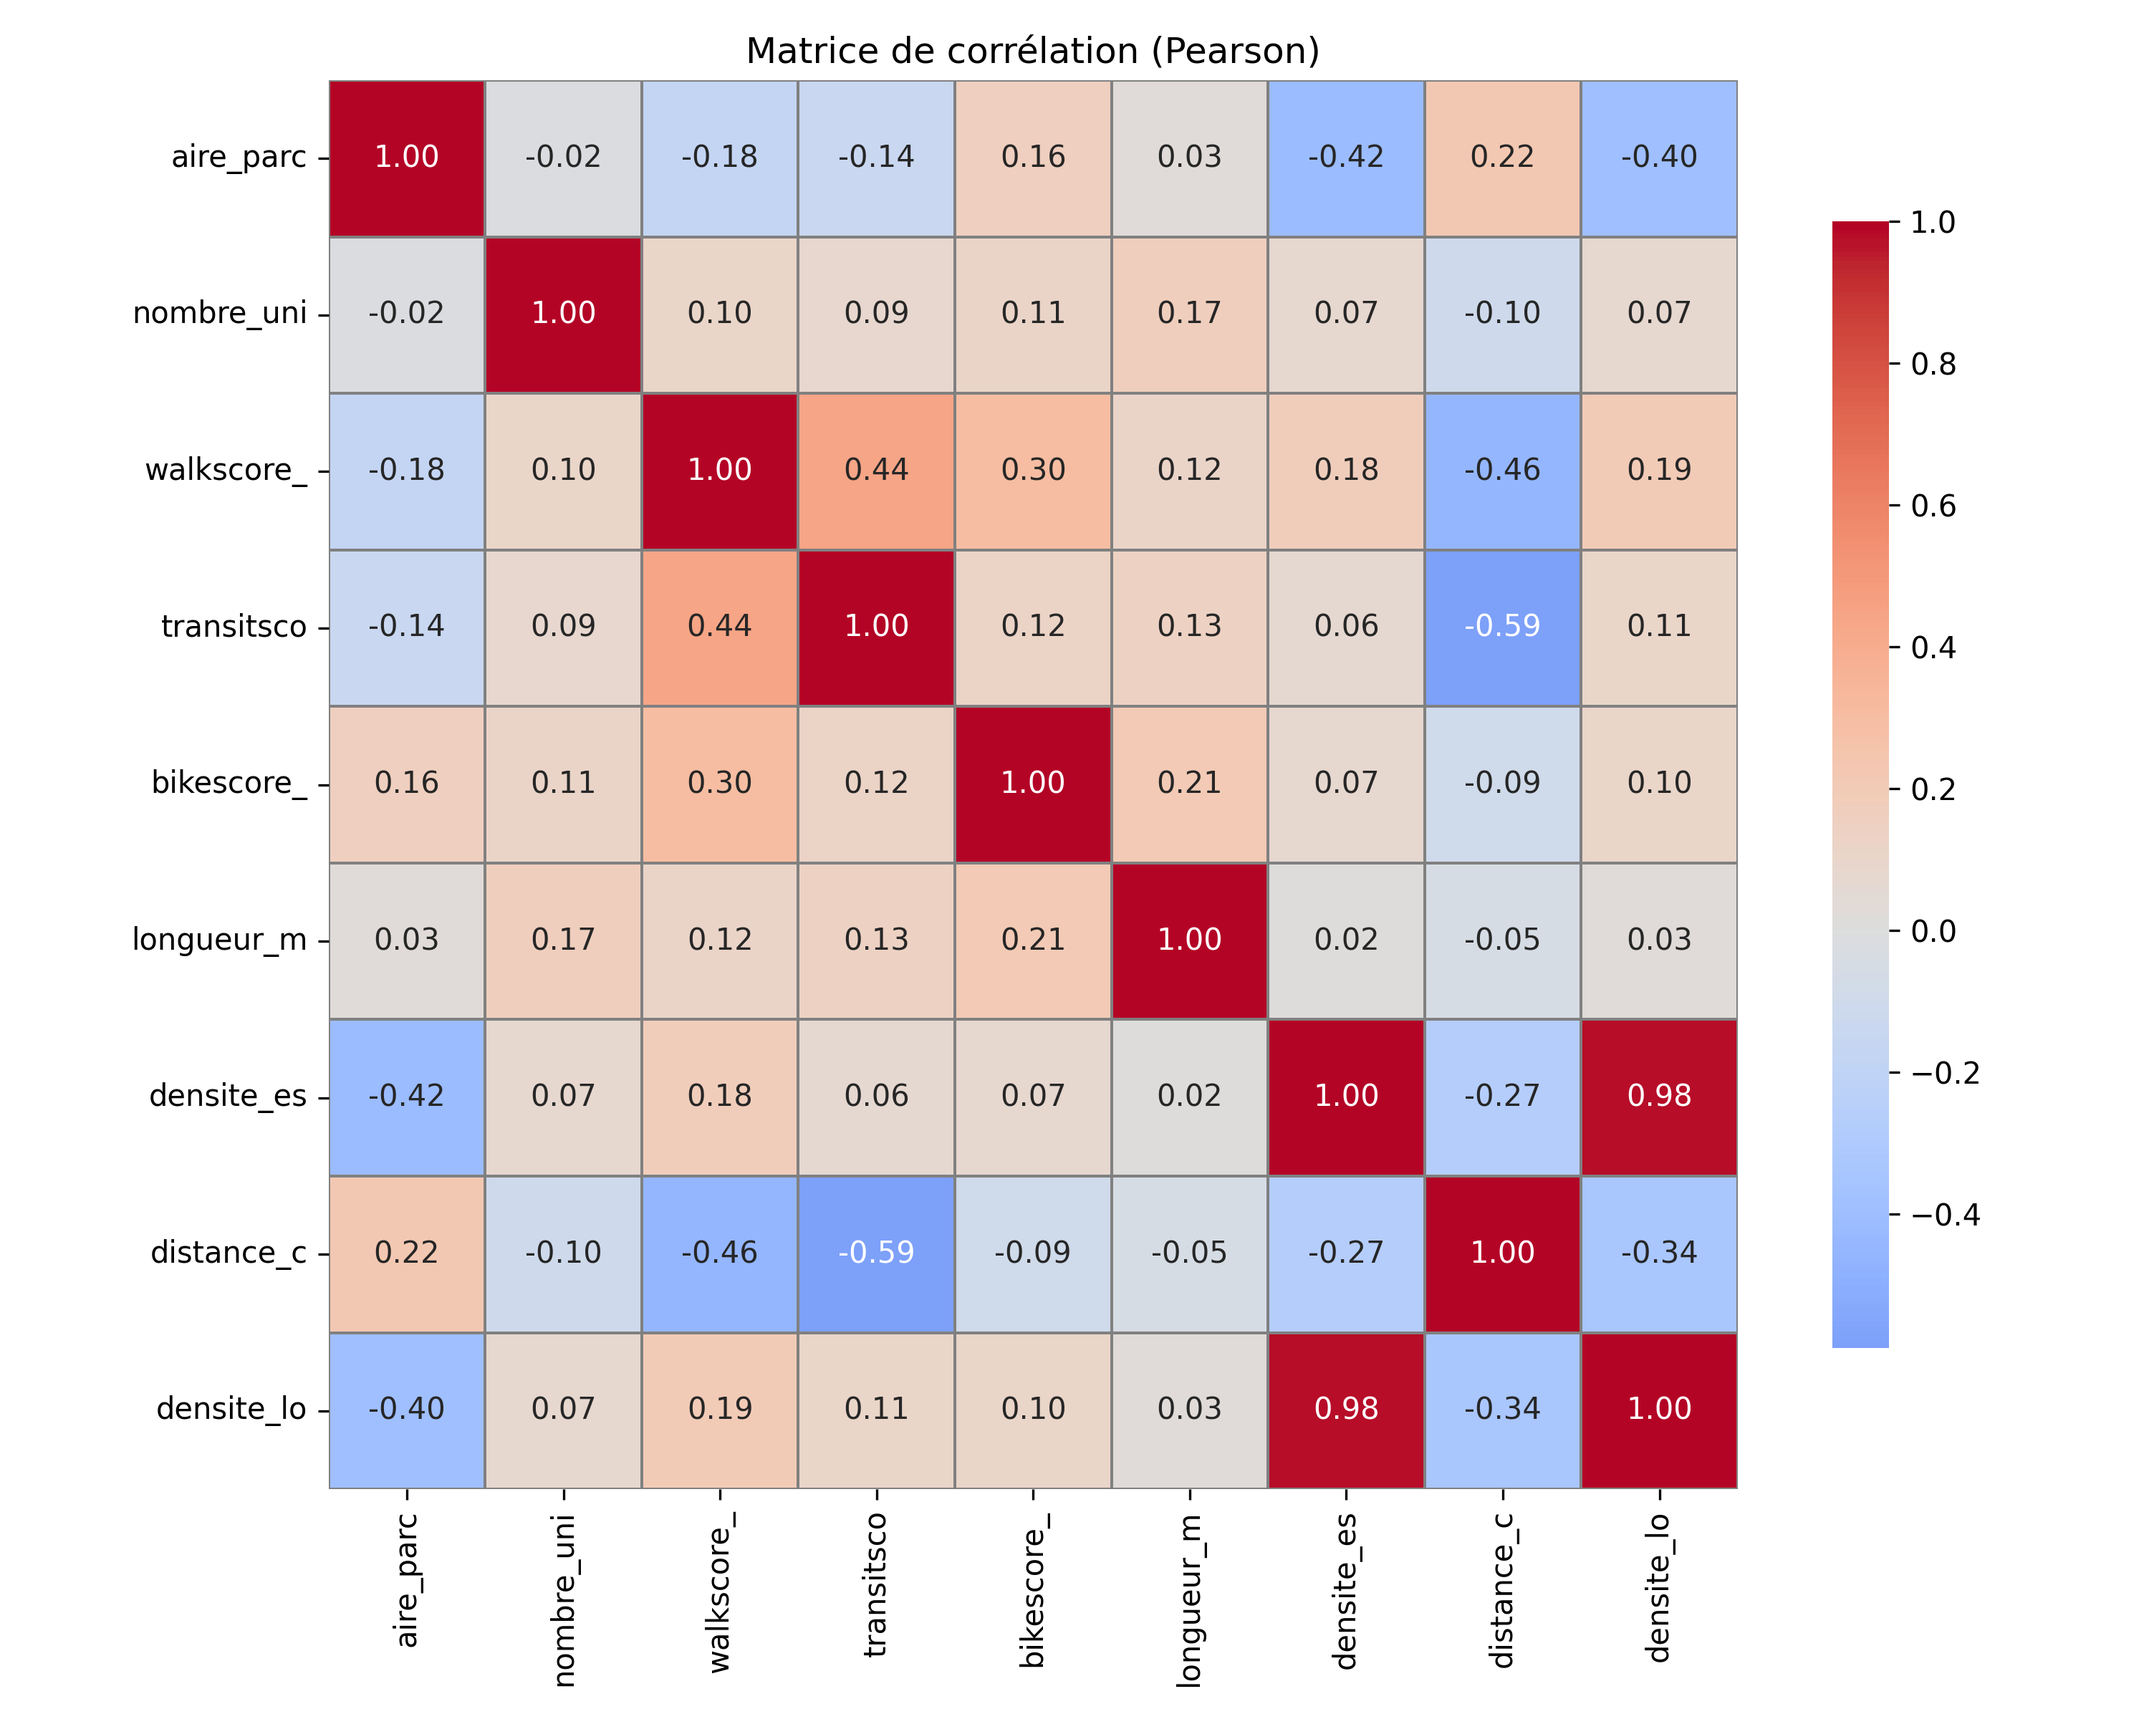
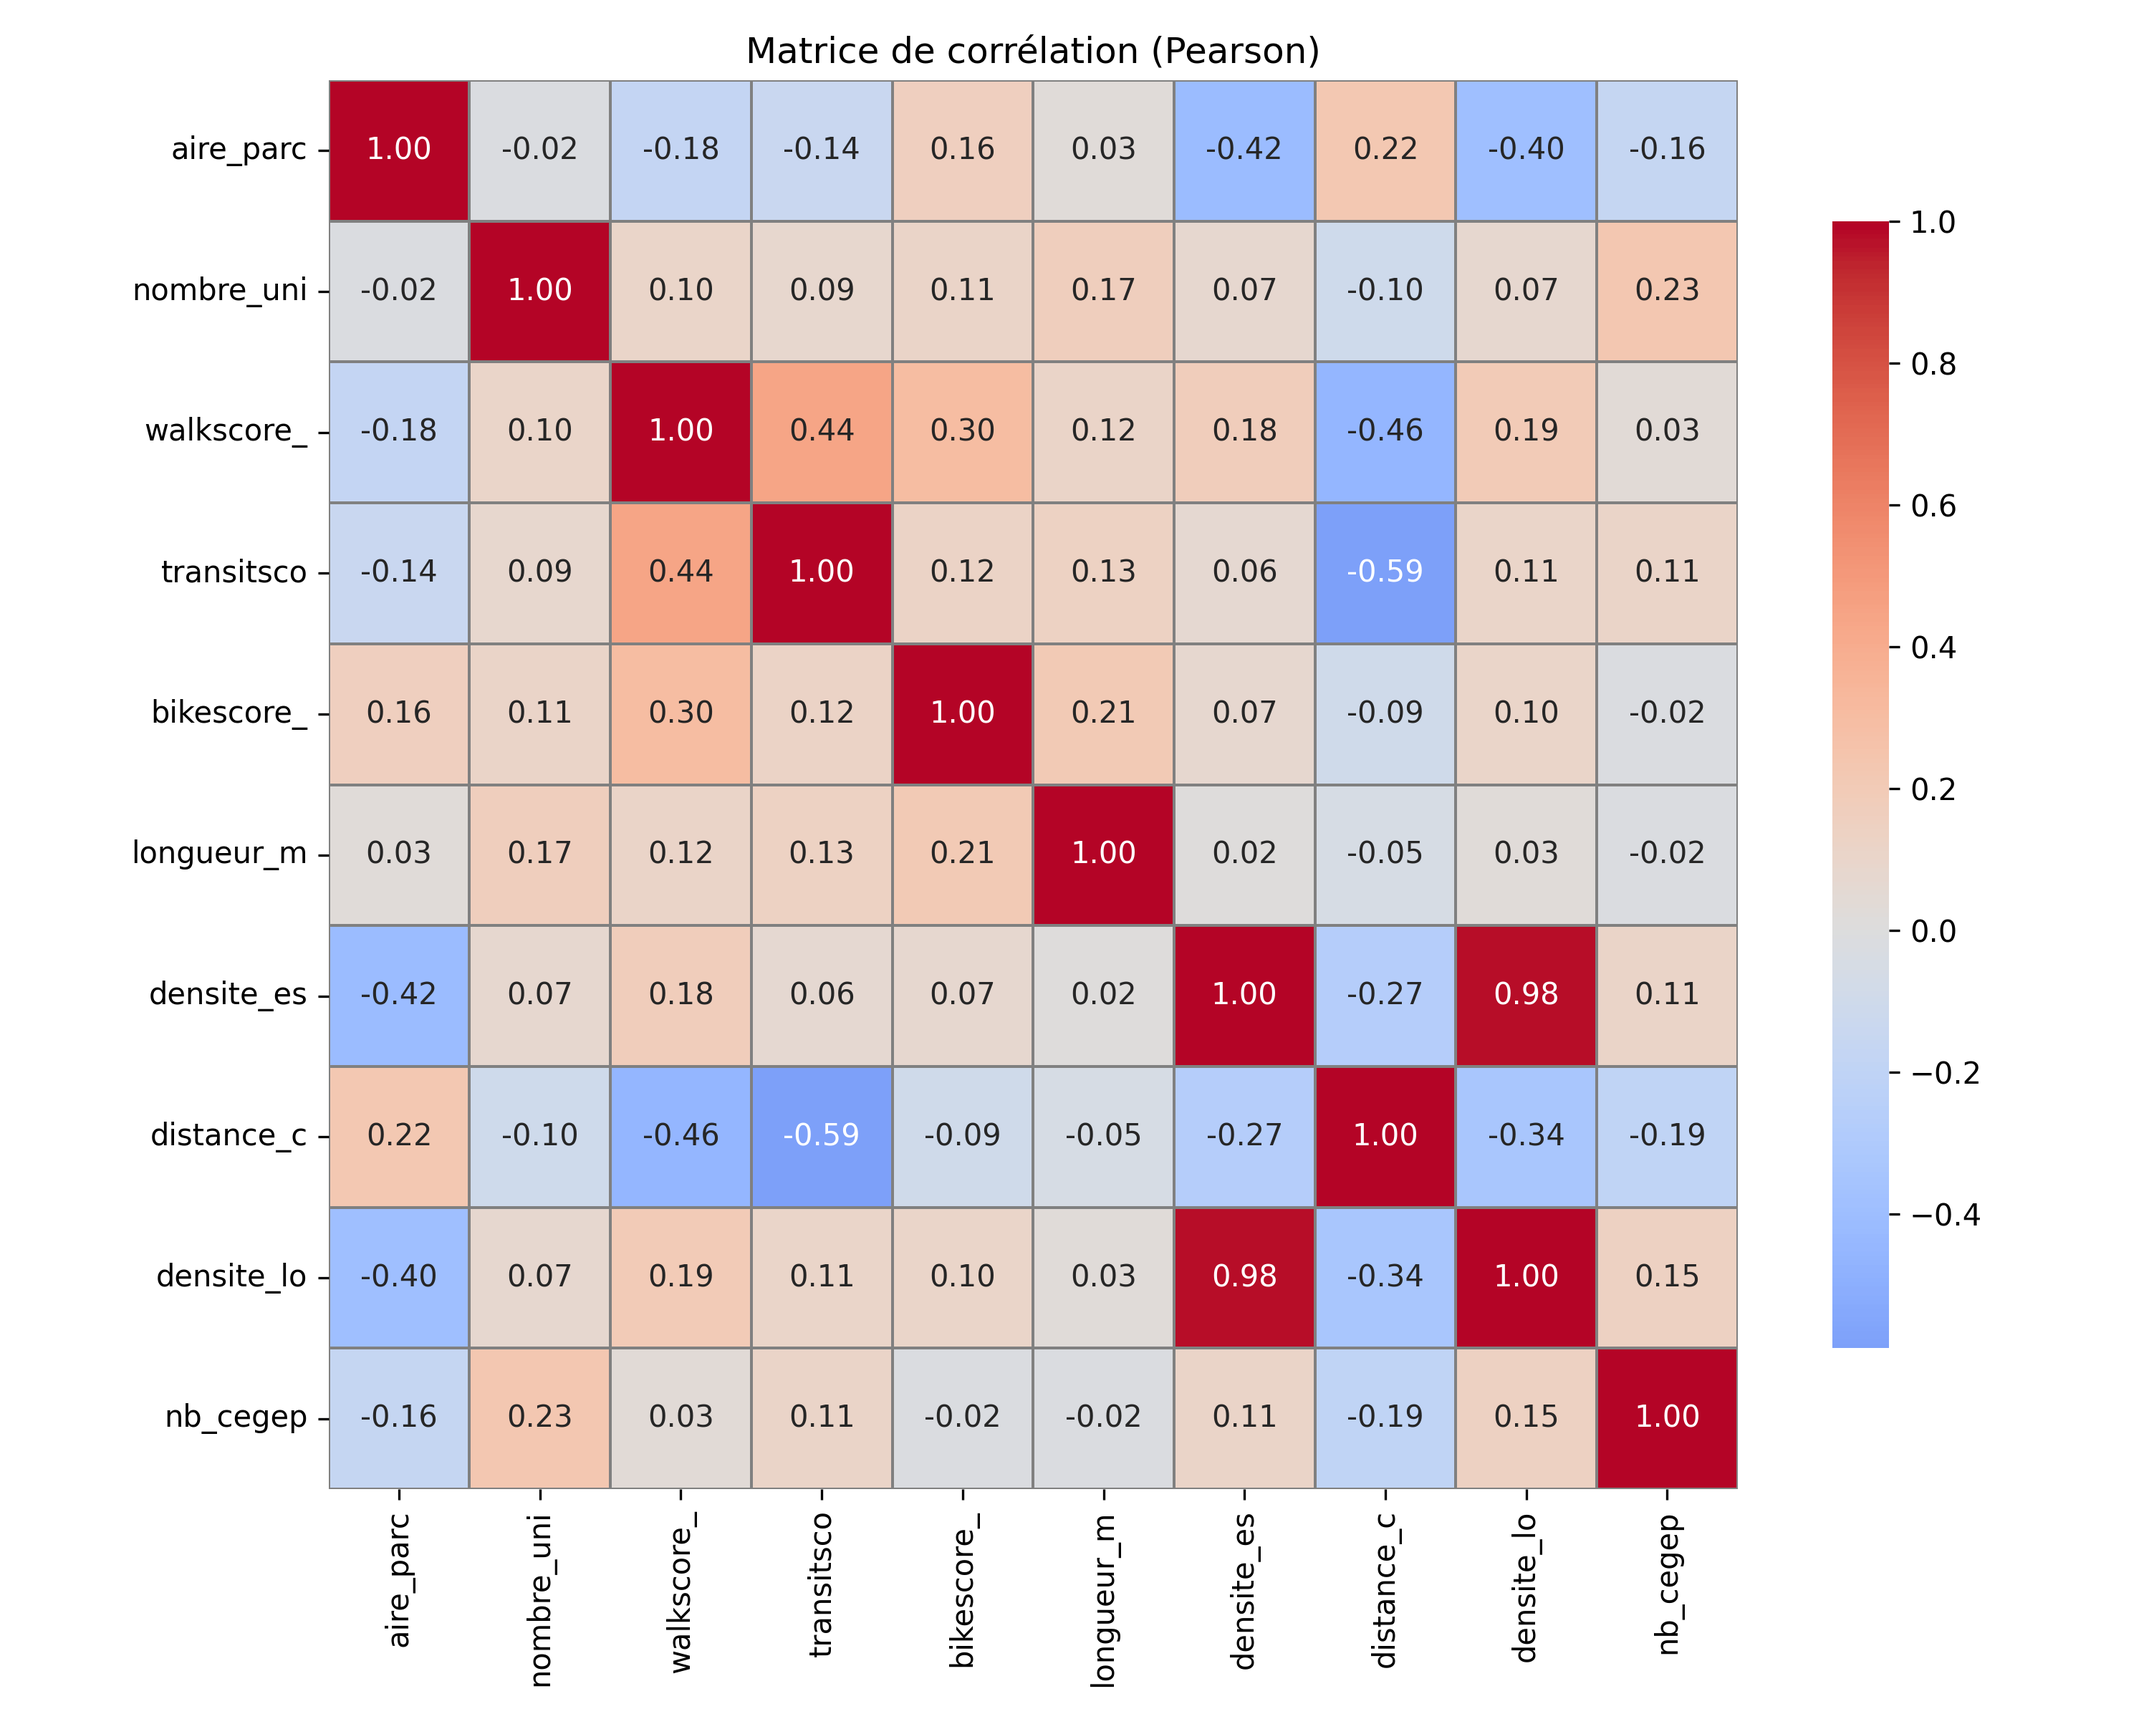
stuff

diff --git a/scripts/visuals/xgb_shap_importance.py b/scripts/visuals/xgb_shap_importance.py
@@ -1,0 +1,74 @@
+import geopandas as gpd
+import matplotlib.pyplot as plt
+import pandas as pd
+import xgboost as xgb
+import shap
+from sklearn.model_selection import train_test_split
+
+# -------------------
+# Variables
+# -------------------
+colonnes_facteurs = [
+    "aire_parc", "nombre_uni", "walkscore_", "transitsco",
+    "bikescore_", "longueur_m", "densite_es", "distance_c",
+    "densite_lo",# "nb_cegep"
+]
+
+# Exemple : chargement des données
+df = gpd.read_file("../../data/processed/ete_2024/hexagones250m_ete_2024_popdens_bikepath_parcs_universites_zonage_logement.shp")
+#df = gpd.read_file("../../data/processed/hiver_2324/hexagones250m_hiver_2023_2024_popdens_bikepath_parcs_universites_zonage_logement_cegep.shp")
+#df = gpd.read_file("../../data/processed/hiver2425/hexagones250m_hiver_2024_2025_popdens_bikepath_parcs_universites_zonage_logement.shp")
+
+# -------------------
+# Séparation features / target
+# -------------------
+X = df[colonnes_facteurs]
+y = df["nb_trajets"]
+
+X_train, X_valid, y_train, y_valid = train_test_split(
+    X, y, test_size=0.2, random_state=42
+)
+
+# -------------------
+# Conversion en DMatrix (format interne XGBoost)
+# -------------------
+dtrain = xgb.DMatrix(X_train, label=y_train)
+dvalid = xgb.DMatrix(X_valid, label=y_valid)
+
+# -------------------
+# Paramètres du modèle
+# -------------------
+params = {
+    "objective": "reg:squarederror",
+    "eta": 0.05,           # learning_rate
+    "max_depth": 6,
+    "subsample": 0.8,
+    "colsample_bytree": 0.8,
+    "tree_method": "hist", # plus rapide pour gros jeux de données
+    "seed": 42
+}
+
+# -------------------
+# Entraînement avec early stopping
+# -------------------
+evals = [(dtrain, "train"), (dvalid, "valid")]
+model = xgb.train(
+    params=params,
+    dtrain=dtrain,
+    num_boost_round=1000,
+    evals=evals,
+    early_stopping_rounds=50,
+    verbose_eval=False
+)
+
+# -------------------
+# SHAP Values
+# -------------------
+explainer = shap.TreeExplainer(model)
+shap_values = explainer.shap_values(X_valid)
+
+# Graphique global : importance moyenne absolue
+shap.summary_plot(shap_values, X_valid, plot_type="bar")
+
+# Graphique global détaillé (impact positif/négatif)
+shap.summary_plot(shap_values, X_valid)

diff --git a/scripts/visuals/xgb_feature_importance.py b/scripts/visuals/xgb_feature_importance.py
@@ -1,0 +1,72 @@
+import geopandas as gpd
+import matplotlib.pyplot as plt
+import pandas as pd
+import xgboost as xgb
+from sklearn.model_selection import train_test_split
+
+# -------------------
+# Variables
+# -------------------
+colonnes_facteurs = [
+    "aire_parc", "nombre_uni", "walkscore_", "transitsco",
+    "bikescore_", "longueur_m", "densite_es", "distance_c",
+    "densite_lo", "nb_cegep"
+]
+
+# Exemple : chargement des données
+#df = gpd.read_file("../../data/processed/ete_2024/hexagones250m_ete_2024_popdens_bikepath_parcs_universites_zonage_logement.shp")
+df = gpd.read_file("../../data/processed/hiver_2324/hexagones250m_hiver_2023_2024_popdens_bikepath_parcs_universites_zonage_logement_cegep.shp")
+# -------------------
+# Séparation features / target
+# -------------------
+X = df[colonnes_facteurs]
+y = df["nb_trajets"]
+
+X_train, X_valid, y_train, y_valid = train_test_split(
+    X, y, test_size=0.2, random_state=42
+)
+
+# -------------------
+# Conversion en DMatrix (format interne XGBoost)
+# -------------------
+dtrain = xgb.DMatrix(X_train, label=y_train)
+dvalid = xgb.DMatrix(X_valid, label=y_valid)
+
+# -------------------
+# Paramètres du modèle
+# -------------------
+params = {
+    "objective": "reg:squarederror",
+    "eta": 0.05,           # learning_rate
+    "max_depth": 6,
+    "subsample": 0.8,
+    "colsample_bytree": 0.8,
+    "tree_method": "hist", # plus rapide pour gros jeux de données
+    "seed": 42
+}
+
+# -------------------
+# Entraînement avec early stopping
+# -------------------
+evals = [(dtrain, "train"), (dvalid, "valid")]
+model = xgb.train(
+    params=params,
+    dtrain=dtrain,
+    num_boost_round=1000,          # itérations max
+    evals=evals,
+    early_stopping_rounds=50,      # arrêt si pas d'amélioration
+    verbose_eval=False
+)
+
+# -------------------
+# Importances des features
+# -------------------
+importances = model.get_score(importance_type="gain")
+feat_importances = pd.Series(importances).sort_values()
+
+plt.figure(figsize=(8, 5))
+feat_importances.plot(kind="barh", color="skyblue", edgecolor="black")
+plt.title("Importance des variables - XGBoost (gain)")
+plt.xlabel("Gain moyen par split")
+plt.tight_layout()
+plt.show()

diff --git a/scripts/visuals/generate_visuals.py b/scripts/visuals/generate_visuals.py
@@ -165,11 +165,11 @@ def analyser_zonage(hexagones, output_path ):
 
 def main():
     # Chargement des données
-    season = "hiver_2425"
+    season = "hiver_2324"
     if season == "ete_2024":
         hexagones = gpd.read_file("../../data/processed/ete_2024/hexagones250m_ete_2024_popdens_bikepath_parcs_universites_zonage_logement.shp")
     elif season == "hiver_2324":
-        hexagones = gpd.read_file("../../data/processed/hiver_2324/hexagones250m_hiver_2023_2024_popdens_bikepath_parcs_universites_zonage_logement.shp")
+        hexagones = gpd.read_file("../../data/processed/hiver_2324/hexagones250m_hiver_2023_2024_popdens_bikepath_parcs_universites_zonage_logement_cegep.shp")
     elif season == "hiver_2425":
         hexagones = gpd.read_file("../../data/processed/hiver2425/hexagones250m_hiver_2024_2025_popdens_bikepath_parcs_universites_zonage_logement.shp")
     print(hexagones.columns)
@@ -204,11 +204,14 @@ def main():
     analyser_relation(hexagones, "densite_lo", "nb_trajets", f"{season}/densite_logements_vs_trajets",
                       correlation_csv=f"output/{season}/correlations.csv")
 
+    analyser_relation(hexagones, "nb_cegep", "nb_trajets", f"{season}/nb_cegep_vs_trajets",
+                      correlation_csv=f"output/{season}/correlations.csv")
+
     analyser_zonage(hexagones, output_path=f"output/{season}/zonage.png")
 
     colonnes_facteurs = [
         "aire_parc", "nombre_uni", "walkscore_", "transitsco",
-        "bikescore_", "longueur_m", "densite_es", "distance_c", "densite_lo"
+        "bikescore_", "longueur_m", "densite_es", "distance_c", "densite_lo", "nb_cegep"
     ]
 
     generer_matrice_correlation(hexagones, colonnes_facteurs,

diff --git a/scripts/visuals/rf_feature_importance.py b/scripts/visuals/rf_feature_importance.py
@@ -1,0 +1,57 @@
+import geopandas as gpd
+import matplotlib.pyplot as plt
+from sklearn.ensemble import RandomForestRegressor
+from sklearn.model_selection import train_test_split
+import pandas as pd
+
+# -------------------
+# Variables
+# -------------------
+colonnes_facteurs = [
+    "aire_parc", "nombre_uni", "walkscore_", "transitsco",
+    "bikescore_", "longueur_m", "densite_es", "distance_c",
+    "densite_lo", #"nb_cegep"
+]
+
+# Ton GeoDataFrame (exemple de chargement)
+df = gpd.read_file("../../data/processed/ete_2024/hexagones250m_ete_2024_popdens_bikepath_parcs_universites_zonage_logement.shp")
+# Ici, j'assume que ton df est déjà chargé et propre
+
+# -------------------
+# Séparation features / target
+# -------------------
+X = df[colonnes_facteurs]
+y = df["nb_trajets"]
+
+# -------------------
+# Train-test split
+# -------------------
+X_train, X_test, y_train, y_test = train_test_split(
+    X, y, test_size=0.2, random_state=42
+)
+
+# -------------------
+# Modèle Random Forest
+# -------------------
+rf = RandomForestRegressor(
+    n_estimators=100,
+    random_state=42
+)
+rf.fit(X_train, y_train)
+
+# -------------------
+# Feature importances
+# -------------------
+importances = rf.feature_importances_
+feat_importances = pd.Series(importances, index=colonnes_facteurs)
+
+# -------------------
+# Graphique
+# -------------------
+plt.figure(figsize=(8, 5))
+feat_importances.sort_values().plot(kind="barh", color="skyblue", edgecolor="black")
+plt.title("Importance des variables - RandomForest")
+plt.xlabel("Importance")
+plt.ylabel("Variables")
+plt.tight_layout()
+plt.show()

diff --git a/scripts/data/data_pipeline.py b/scripts/data/data_pipeline.py
@@ -9,9 +9,10 @@ from add_university_data import ajouter_nombre_universites_par_hexagone
 from compute_distance_to_downtown import compute_distance_to_downtown
 from add_zoning_data import lister_affectations_par_hexagone
 from generate_housing_density_data import calculer_densite_logement_par_hexagone
+from add_college_data import ajouter_nombre_cegep_par_hexagone
 import yaml
 
-def load_config(path="config_hiver_2024_2025.yml"):
+def load_config(path="config_hiver_2023_2024.yml"):
     with open(path, "r") as f:
         return yaml.safe_load(f)
 
@@ -100,7 +101,12 @@ def main():
             ad_path=paths["aire_diffusion_logements"],
             output_path=paths["hex_logement"],
         )
-
+    if steps["cegep"]:
+        ajouter_nombre_cegep_par_hexagone(
+            path_hexagones=paths["hex_logement"],
+            path_cegep=paths["cegep"],
+            output_path=paths["hex_cegep"]
+        )
 
 if __name__ == "__main__":
     main()

diff --git a/scripts/data/add_college_data.py b/scripts/data/add_college_data.py
@@ -1,0 +1,27 @@
+import geopandas as gpd
+
+def ajouter_nombre_cegep_par_hexagone(path_hexagones, path_cegep, output_path):
+
+    # 1. Charger les données
+    hexagones = gpd.read_file(path_hexagones)
+    cegeps = gpd.read_file(path_cegep)
+
+    # 2. Harmoniser les systèmes de coordonnées
+    hexagones = hexagones.to_crs(epsg=32188)
+    cegeps = cegeps.to_crs(epsg=32188)
+
+    # 3. Index clair
+#    hexagones = hexagones.reset_index().rename(columns={"index": "hex_index"})
+
+    # 4. Jointure spatiale
+    cegeps_dans_hex = gpd.sjoin(cegeps, hexagones, how="left", predicate='within')
+
+    # 5. Comptage par hexagone
+    counts = cegeps_dans_hex.groupby("hex_index").size().reset_index(name="nb_cegep")
+
+    # 6. Fusion dans la grille
+    hexagones = hexagones.merge(counts, on="hex_index", how="left")
+    hexagones["nb_cegep"] = hexagones["nb_cegep"].fillna(0).astype(int)
+
+    # 7. Export
+    hexagones.to_file(output_path)
